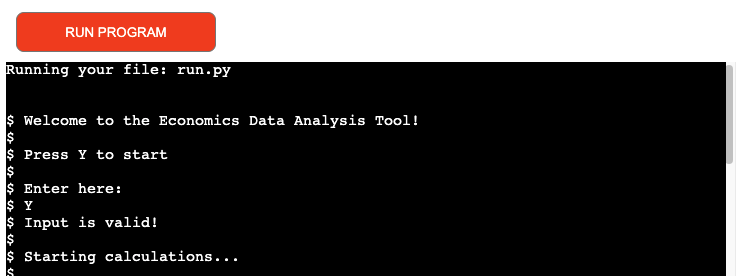
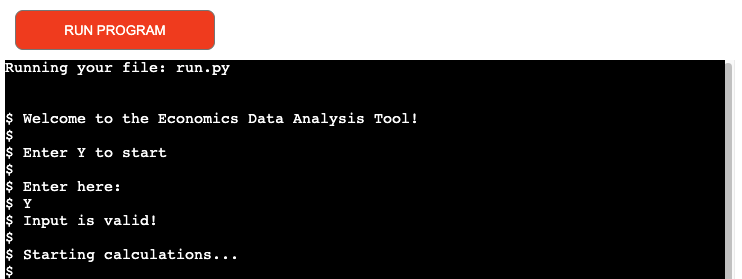
Fix spelling errors and update screenshot for testing

diff --git a/README.md b/README.md
@@ -40,7 +40,7 @@ The Economics Data Analysis Tool is a terminal based application that allows for
 
 ### Project Goals <a name="project-goals"></a>
 
-The main goal for the Economics Data Analysis Tool is to provide a terminal based application which allows the user to import data from Google Sheets, and complete various calculations with the scope for plotting the data as the end result.
+The main goal for the Economics Data Analysis Tool is to provide a terminal-based application which allows the user to import data from Google Sheets, and complete various calculations with the scope for plotting the data as the end result.
 
 The main target audience for this application is a fictional economist who is interested in analysing various economic data for the UK over the past 10 years. The application would allow for such analysis by completing various calculations and exporting this data back to Google Sheets, as well as allowing the economist to plot data based on their selection. 
 
@@ -83,7 +83,7 @@ As this is terminal based application, the design is kept as the basic terminal 
 
 ### Flowchart <a name="flowchart"></a>
 
-Due to the project being a terminal based application, no wireframes were created for this. Instead a flowchart has been created to display the application process.
+Due to the project being a terminal-based application, no wireframes were created for this. Instead, a flowchart has been created to display the application process.
 
 Flowchart was created using [diagrams.net](https://www.diagrams.net/).
 
@@ -95,11 +95,11 @@ Flowchart was created using [diagrams.net](https://www.diagrams.net/).
 
 __Main__:
 
-The main() functions purpose is to home all the other functions to run in order for the application. Once this function finishes running, the user has reached the end of the application and is displayed with and goodbye message and an additional message of how to start the application again if they wish to.
+The main() function's purpose is to home all the other functions to run in order for the application. Once this function finishes running, the user has reached the end of the application and is displayed with and goodbye message and an additional message of how to start the application again if they wish to.
 
 __Start__:
 
-From the start() function the user is presented with an introductory message on the terminal and is prompted for input to begin the calculations. The input features was added so the user is able to choose when they want to begin the application to run the relevant calculations. By entering the correct input the user is presented with a message to say that calculation are beginning, any incorrect input is accounted for and accordingly returned to the user to state that the input entered is wrong, so they can attempt to enter again until it is correct.
+From the start() function the user is presented with an introductory message on the terminal and is prompted for an input to begin the calculations. The input feature was added so the user is able to choose when they want to begin the application to run the relevant calculations. By entering the correct input, the user is presented with a message to say that calculation are starting. Any incorrect input is accounted for with an if statement and accordingly returned to the user to state that the input entered is wrong, so they can attempt to enter again until it is correct.
 
 __Get Column Data__:
 
@@ -107,25 +107,25 @@ Once the application is initiated by the user, the get_column_function() is run 
 
 __Calculate Data__:
 
-The calculate_sum(), calculate_average() and calculate_estimate() are functions which complete calculations using the imported data from Google Sheets. The calculate_sum() function uses the obtained column data and calculates the total sum for each column and returning this total in a newly created list. The calculate_average() function uses the sum calculated previously to now calculate the average for each column by diving the sum by total rows of data. This is then returned in a newly created list. The calculate_estimate() function uses the average figure for each column to calculate an estimate for the following year. This is then returned in a newly created list. The list for the estimate data is inserted with a new entry for the year '2021' to allow for exporting data in an appropriate manner which can then be utilised for plotting. In each of these cases the user is presented with a message in the terminal to display and confirm once the data has been calculated.
+The calculate_sum(), calculate_average() and calculate_estimate() are functions which complete calculations using the imported data from Google Sheets. The calculate_sum() function uses the obtained column data and calculates the total sum for each column and returning this total in a newly created list. The calculate_average() function uses the sum calculated previously to now calculate the average for each column by diving the sum by total rows of data (which is 11). This is then returned in a newly created list. The calculate_estimate() function uses the average figure for each column to calculate an estimate for the following year. This is then returned in a newly created list. The list for the estimate data is inserted with a new entry for the year '2021' to allow for exporting data in an appropriate manner which can then be utilised for plotting. In each of these cases the user is presented with a message in the terminal to display and confirm once the data has been calculated.
 
 __Update Worksheet__:
 
-The update_worksheet() function which takes 2 parameters; data and worksheet, uses the previously calculated sum, average and estimate figures for each column and exports the data back to Google Sheets for the relevant worksheet. Each of the calculations have their own worksheet, 'sum', 'average' and 'estimate' where the rows are updated for each column with the calculated data which the user can view on the worksheets. The user is presented with a message in the termianl to confirm that the relevant worksheet has been updated with the calculated data.
+The update_worksheet() function which takes 2 parameters; data and worksheet, uses the previously calculated sum, average and estimate figures for each column and exports the data back to Google Sheets for the relevant worksheet. Each of the calculations have their own worksheet, 'sum', 'average' and 'estimate' where the rows are updated for each column with the calculated data, which the user can view on the worksheets. The user is presented with a message in the terminal to confirm that the relevant worksheet has been updated with the calculated data.
 
 __Create and Append DataFrame__:
 
-The create_data_frame() function takes 1 parameter worksheet and the code here used utilises the pandas library. Data is obtained from the 'project_data' and 'estimate' worksheets to create 2 DataFrames for each of these data sets. The user is presented with a message in the terminal to state that the DataFrame has been created for the relevant worksheet. The append_data_frame() which takes 2 parameters df1 and df2, uses the 2 created DataFrames for 'project_data' and 'estimate" to combine these two DataFrames into one, so the DataFrame will consists of the existing 10 years of data plus the estimate for the next year.
+The create_data_frame() function takes 1 parameter, worksheet and the code here utilises the pandas library. Data is obtained from the 'project_data' and 'estimate' worksheets to create 2 DataFrames for each of these data sets. The user is presented with a message in the terminal to state that the DataFrame has been created for the relevant worksheet. The append_data_frame() which takes 2 parameters df1 and df2, uses the 2 created DataFrames for 'project_data' and 'estimate" to combine these two DataFrames into one, so the DataFrame will consists of the existing 10 years of data plus the estimate for the next year.
 
 __Select Plot and Validate__:
 
-The select_y_plot() function presents the user with an input option in the terminal to select the column they would like for the y-plot (the x-plot by default will be the 'Years' as the user wishes to analyse the data over the given timeframe). The message presented specifies that the column name entered should be exactly the same as the ones obtained from the Google worksheet and also provides an example of an input. The input is then validated via the validate_y_plot() function which takes 1 parameter value of the input the user has entered. This is to to ensure that the user has entered this correctly against a pre-existing list created with the correct column names. Any incorrect input will display an error messahe and prompt the user to try again, the correct input is granted with a message to say that the input is valid.
+The select_y_plot() function presents the user with an input option in the terminal to select the column they would like for the y-plot (the x-plot by default will be the 'Years' as the user wishes to analyse the data over the given timeframe). The message presented specifies that the column name entered should be the same as the ones obtained from the Google worksheet and also provides an example of an input. The input is then validated via the validate_y_plot() function which takes 1 parameter, value, of the input the user has entered. This is to ensure that the user has entered this correctly against a pre-existing list created with the correct column names. Any incorrect input will display an error message and prompt the user to try again, the correct input is granted with a message to say that the input is valid.
 
-The select_plot_type() function presents the user with an input option in the terminal to select the type of plot they would like to produce. There are 3 options presented to the user to choose from and an example added in the terminal via print statement. This is then validated with the validate_plot_type() which takes 1 parameter value of the input the user has entered. The input is checked against a list of correctly defined choices and any that do not match to what user has entered will return an error message in the terminal to the user to indicate that the input was entered incorrectly. Correctly entered input will display the user with a message to state that the input is valid.
+The select_plot_type() function presents the user with an input option in the terminal to select the type of plot they would like to produce. There are 3 options presented to the user to choose from and an example added in the terminal via print statement. This is then validated with the validate_plot_type() which takes 1 parameter, value, of the input the user has entered. The input is checked against a list of correctly defined choices and any input from user that does not match to this list will return an error message in the terminal. Correctly entered input will display to the user a message to state that the input is valid.
 
 __Plot Output__:
 
-The plot_output() function takes 3 parameters; data, value and kind. The data is using the previously appended DataFrame, the value is using the input from user for the y-plot column and kind is using the input from user for the plot type. In this function, I have also utilised the plotext library to allow for plotting data in the terminal. The user is presented with a message to say that data is being plotted and once completed, confirmation is received that the plotting is successful. The terminal message also displays to the user their selected choice of column and plot type and returns the columns from the appended DataFrame to show the uderlying data used for the plot on the terminal. Please note that the plot itself is not displayed in the terminal for the user to view, this issue is further disucssed in the __Known Issues and Resolutions__ section.
+The plot_output() function takes 3 parameters; data, value and kind. The data is using the previously appended DataFrame, the value is using the input from user for the y-plot column and kind is using the input from user for the plot type. In this function, I have also utilised the plotext library to allow for plotting data in the terminal. The user is presented with a message to say that data is being plotted and once completed, confirmation is received that the plotting is successful. The terminal message also displays to the user their selected choice of column and plot type, and returns the columns from the appended DataFrame to show the underlying data used for the plot on the terminal. Please note that the plot itself is not displayed in the terminal for the user to view, this issue is further discussed in the __Known Issues and Resolutions__ section.
 
 ### Future Features <a name="future-features"></a>
 
@@ -177,7 +177,7 @@ Screenshot of the data sample located on the Google worksheet for project_data:
 
 ![](docs/images/testing-1.png)
 
-Once the application is run for the first time, the user is presented with an introductory message to the Economics Data Analysis Tool. The user is then prompted to confirm if they wish to start the application by entering input 'Y'. With the addition of the input option, the user can control when they want to begin the application and continue with the calculation of data rather than the application running straigh away upon the user accessing this. Once the correct input has been entered, the user is presented with confirmation that the input entered is valid, and the application proceeds to run and the data is imported from the Google worksheet.
+Once the application is run for the first time, the user is presented with an introductory message to the Economics Data Analysis Tool. The user is then prompted to confirm if they wish to start the application by entering input 'Y'. With the addition of the input option, the user can control when they want to begin the application and continue with the calculation of data rather than the application running straight away upon the user accessing this. Once the correct input has been entered, the user is presented with confirmation that the input entered is valid, and the application proceeds to run and the data is imported from the Google worksheet.
 
 ![](docs/images/testing-1.2.png)
 
@@ -217,7 +217,7 @@ The following user stories have been achieved:
 * I want to calculate the estimate for each column of data for the next year and update the worksheet.
 * I want to provide an application which allows for data calculation for imported data (sum, average, estimate).
 
-Following this the two DataFrames are created using the project_data and estimate worksheets, this is displayed in the terminal as confirmation to the user that the action has taken place. The DataFrames are then combined to allow the user to plot data for Years 2010 to 2021 for the selected column. The user is next presented with the option to select a column for the y-plot, and provided with further guidance that the input of the column should be exactly the same as the name on the worksheet where the data is imported from. An example is also provided to the user of the input. Once the user has entered the input correctly, a confirmation statement is received to state to the user that the input is valid. This then proceeds onto the next section where the user is once again presented with the input option to select the plot type. The terminal also displays the available options the user can choose from and an exmaple of what the input should look like. Once the user has entered the correct input, a message is then displayed to confirm that the input is valid.
+Following this the two DataFrames are created using the project_data and estimate worksheets, this is displayed in the terminal as confirmation to the user that the action has taken place. The DataFrames are then combined to allow the user to plot data for Years 2010 to 2021 for the selected column. The user is next presented with the option to select a column for the y-plot, and provided with further guidance that the input of the column should be exactly the same as the name on the worksheet where the data is imported from. An example is also provided to the user of the input. Once the user has entered the input correctly, a confirmation statement is received to state to the user that the input is valid. This then proceeds onto the next section where the user is once again presented with the input option to select the plot type. The terminal also displays the available options the user can choose from and an example of what the input should look like. Once the user has entered the correct input, a message is then displayed to confirm that the input is valid.
 
 ![](docs/images/testing-4.png)
 
@@ -227,7 +227,7 @@ If the user enters the incorrect input, at either of the two stages to select th
 
 ![](docs/images/testing-4.2.png)
 
-The final stage of the application is plotting the data once the user has entered valid input. The user is presented with a message in the terminal to state that the data is being plotted, and once this is completed, the user is presented with confirmation to state that this is completed. An additional message is displayed to show that the data is plotted based on the user's previous slection for the y-plot column and the plot type and the DataFrame columns are returned in the terminal to display to the user the underlying data used for plotting. The application ends with a goodbye message to the user, and an option to re-run the application once again if the user wishes to do so.
+The final stage of the application is plotting the data once the user has entered valid input. The user is presented with a message in the terminal to state that the data is being plotted, and once this is completed, the user is presented with confirmation to state that this is completed. An additional message is displayed to show that the data is plotted based on the user's previous input for the y-plot column and the plot type and the DataFrame columns are returned in the terminal to display to the user the underlying data used for plotting. The application ends with a goodbye message to the user, and an option to re-run the application once again if the user wishes to do so.
 
 ![](docs/images/testing-4.3.png)
 
@@ -260,11 +260,11 @@ Although this is a web application, it is visible on mobile and tablets, even th
 
 ### Known Issues and Resolutions <a name="issues"></a>
 
-* During testing an issue was identified within the append_data_frame(df1, df2) function. The purpose of this function is to append the two DataFrames created for the 'project_data' and 'estimate' worksheet. However, as the user is able to re-run the application to calculate the data multiple times if they wish to do so, this results in the 'estimate' worksheet having multiple rows of data. Therefore, when the DataFrames are appended, this can result in the year 2021 for the estimate having multiple entries within the appended DataFrame, when only the most recent row of data calculated is required. To resolve this issue, the code was updated from df_append = df1.append(df2) to the following df_append = df1.append(df2.tail(1)). Utilising the pandas library, the addition of tail(1) ensured that when appending the two DataFrames, for the 'estimate' DataFrame, only the last row of data was returned which was the most recently calculated. Therefore, this would no longer pose the issue where multiple rows for the estimate data is being returned if the user had previously run the application multiple times to calculate this.
+* During testing an issue was identified within the append_data_frame(df1, df2) function. The purpose of this function is to append the two DataFrames created for the 'project_data' and 'estimate' worksheet. However, as the user is able to re-run the application to calculate the data multiple times if they wish to do so, this results in the 'estimate' worksheet having multiple rows of data. Therefore, when the DataFrames are appended, this can result in the year 2021 for the estimate having multiple entries within the appended DataFrame, when only the most recent row of data calculated is required. To resolve this issue, the code was updated from df_append = df1.append(df2) to the following df_append = df1.append(df2.tail(1)). Utilising the pandas library, the addition of tail(1) ensured that when appending the two DataFrames, for the 'estimate' DataFrame, only the last row of data was returned which was the one most recently calculated. Therefore, this would no longer pose the issue where multiple rows for the estimate data is being returned if the user had previously run the application multiple times to calculate this.
 
-* During testing an issue was identified within the plot_output(data, value, kind) function. The purpose of this function is to plot the output to the terminal based on the user's previous inputs for the y-plot column and plot type using the following code plt.show(). This posed no issues when the code was run in GitPod, as the output was plotted in the terminal and the user was able to view this. However, once the project was deployed to Heroku and tested again using the template provided, the code for plt.show() did not run as expected and resulted in an error displayed in the terminal. Due to the plotext terminal plotting not being supported with the template used for deployment and additional time constraints this issue could not be fully resolved. To overcome the issue, the code was re-worked for this function. Instead of using plt.show() to display the plotted output in the terminal, instead the user is now displayed with a message to confirm that the data plot was successful based on their selection for the y-plot column and the plot type. In addition, the user is returned with the selected column from the DataFrame used for the plot to show the data used for plotting. 
+* During testing an issue was identified within the plot_output(data, value, kind) function. The purpose of this function is to plot the output to the terminal based on the user's previous inputs for the y-plot column and plot type using the following code plt.show(). This posed no issues when the code was run in GitPod, as the output was plotted in the terminal and the user was able to view this. However, once the project was deployed to Heroku and tested again using the template provided, the code for plt.show() did not run as expected and resulted in an error displayed in the terminal. Due to the plotext terminal plotting not being supported with the template used for deployment and additional time constraints, this issue could not be fully resolved. To overcome the issue, the code was re-worked for this function. Instead of using plt.show() to display the plotted output in the terminal, instead the user is now displayed with a message to confirm that the data plot was successful based on their selection for the y-plot column and the plot type. In addition, the user is returned with the selected column from the DataFrame used for the plot to show the data used for plotting. 
 
-An example below of what the plotted output looks like in the terminal once this code is run in GitPod:
+An example below of what the plotted output looks like in the terminal when the plt.show() code was run in GitPod:
 
 ![](docs/images/plot-example.png)
 
@@ -282,7 +282,7 @@ The project was developed using GitPod and was deployed via the GitHub repositor
 
 The following steps were followed to deploy this project:
 
-1. From the Heroku dashboard, select 'New' in the top right hand corner.
+1. From the Heroku dashboard, select 'New' in the top right-hand corner.
 2. Click 'Create new app'.
 3. Enter the app name and choose region as Europe. 
 4. Click 'Create app'.
